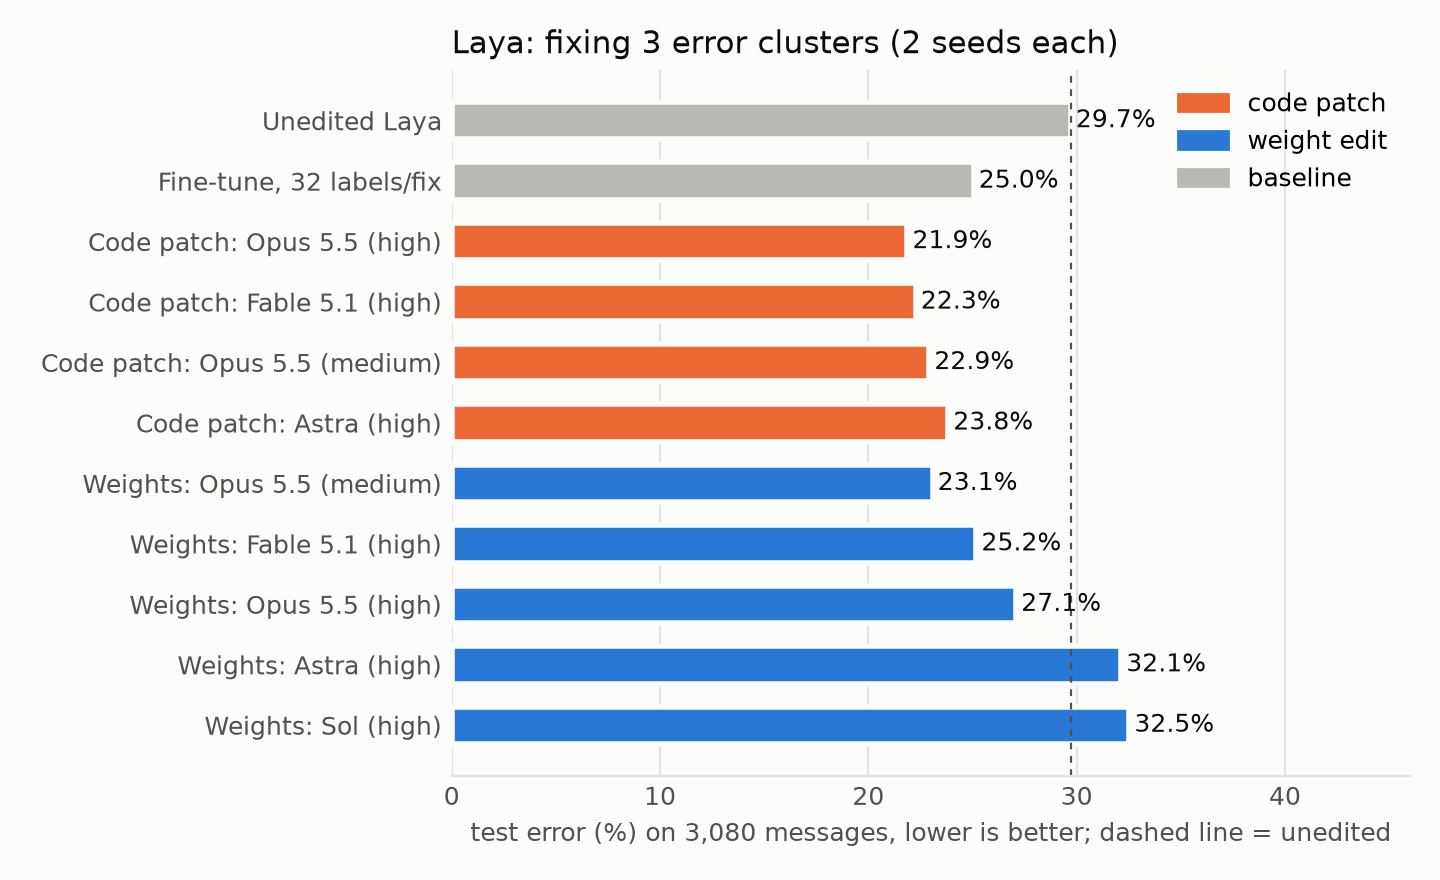
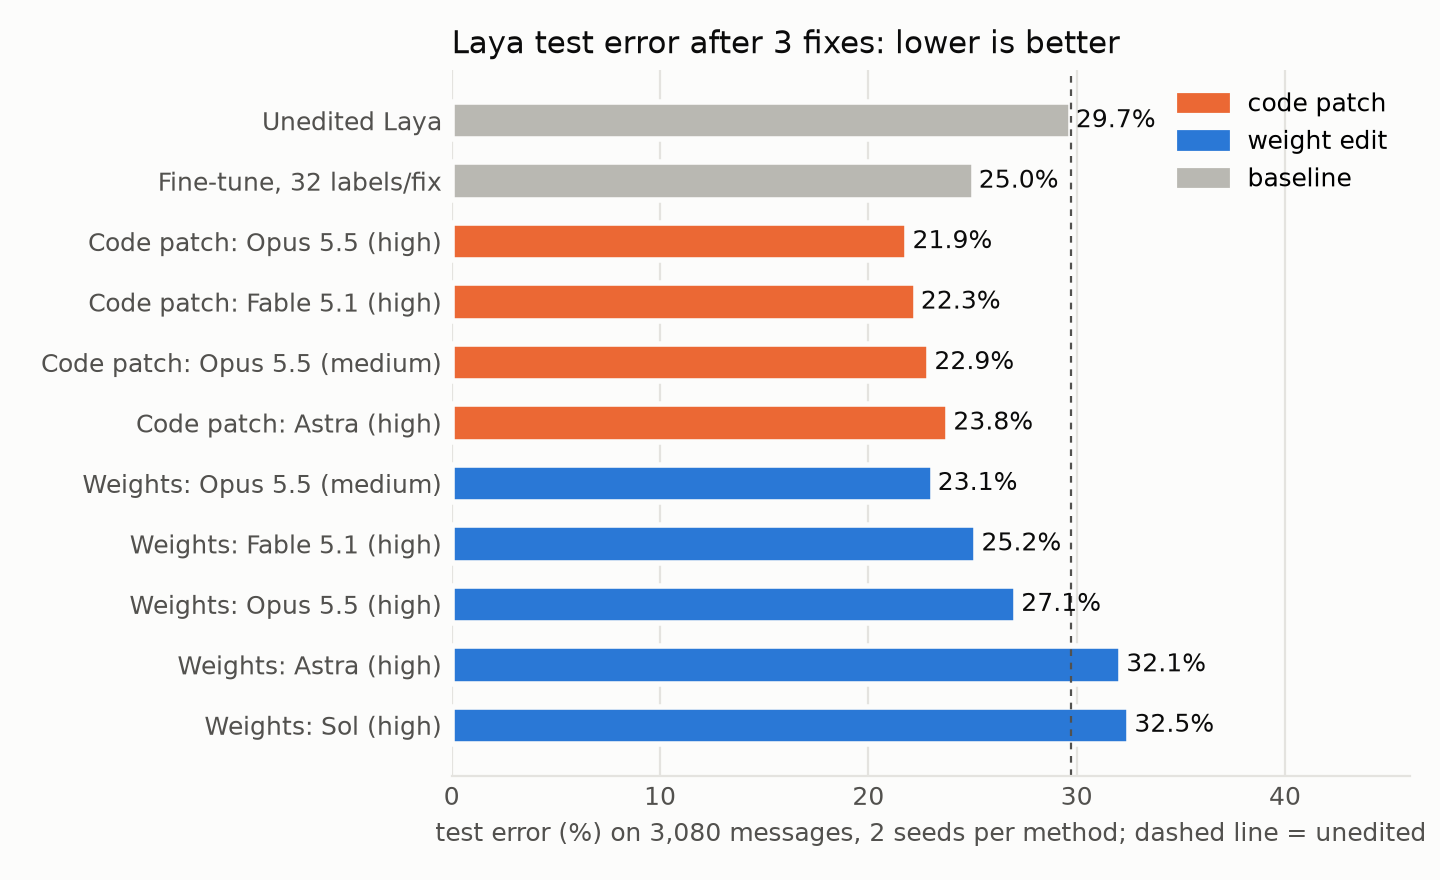
Laya chart: say lower is better in the title

Changed region(s): [[0.3125, 0.9205, 1.0, 0.9818], [0.375, 0.0307, 0.7812, 0.0614]]

diff --git a/laya/plot_laya.py b/laya/plot_laya.py
@@ -41,8 +41,8 @@ for s in ("top", "right", "left"):
     ax.spines[s].set_visible(False)
 ax.spines["bottom"].set_color(GRID)
 ax.tick_params(colors=INK2, labelsize=9, length=0)
-ax.set_xlabel("test error (%) on 3,080 messages, lower is better; dashed line = unedited", fontsize=9, color=INK2)
-ax.set_title("Laya: fixing 3 error clusters (2 seeds each)", fontsize=11, color=INK, loc="left")
+ax.set_xlabel("test error (%) on 3,080 messages, 2 seeds per method; dashed line = unedited", fontsize=9, color=INK2)
+ax.set_title("Laya test error after 3 fixes: lower is better", fontsize=11, color=INK, loc="left")
 ax.legend(handles=[Patch(color=CODE, label="code patch"), Patch(color=WEIGHTS, label="weight edit"),
                    Patch(color=BASE, label="baseline")], loc="upper right", frameon=False, fontsize=9)
 fig.tight_layout()
